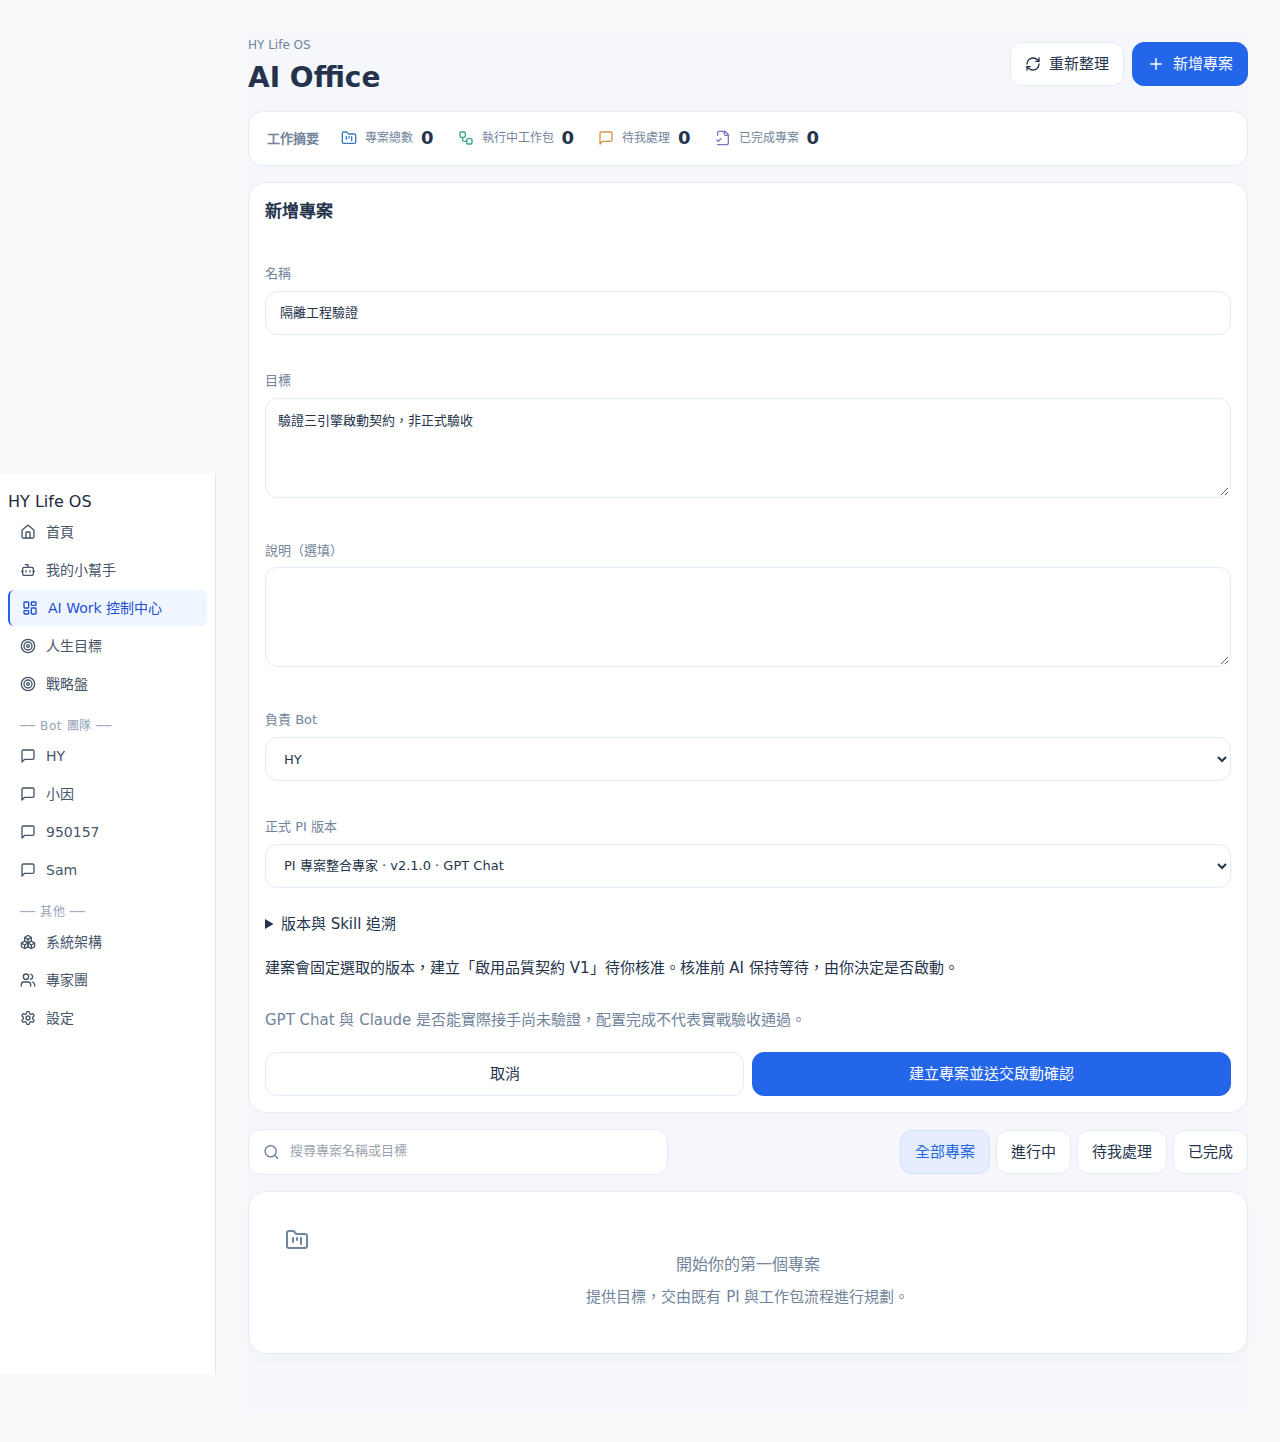
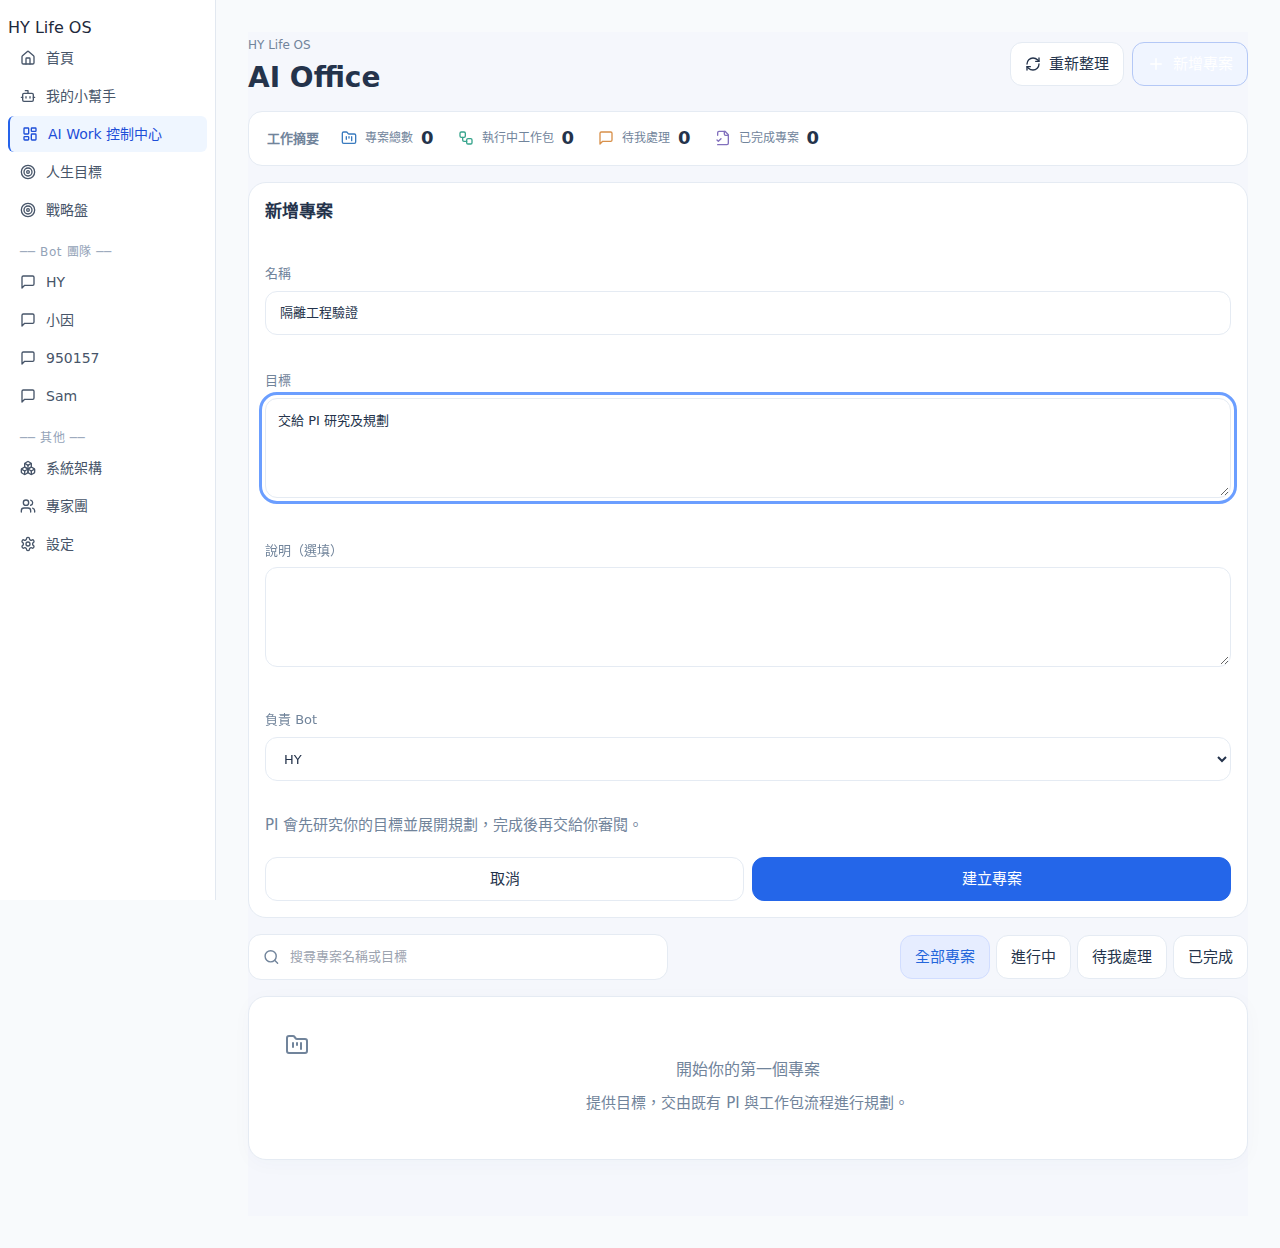
Simplify Office creation: remove PI selection and extra activation approval

diff --git a/src/pages/AIOfficeV1.jsx b/src/pages/AIOfficeV1.jsx
@@ -26,32 +26,23 @@ function Empty({ children }) { return <p className="ao-empty">{children}</p> }
 function Markdown({ value }) { return value ? <ReactMarkdown remarkPlugins={[remarkGfm]} skipHtml components={{a: ({href,children}) => <Link href={href}>{children}</Link>}}>{value}</ReactMarkdown> : <Empty>正式文件尚未提供。</Empty> }
 
 export default function AIOfficeV1() {
-  return <div className="ao"><ControlCenterV5 title="AI Office" loadData={loadOffice} renderCreation={props=><StartupCreate {...props}/>} renderHome={props=><OfficeHome {...props}/>} renderProject={({project,onBack,onDeleted}) => <OfficeProject key={project.id} id={project.id} onBack={onBack} onDeleted={onDeleted} />} /></div>
+  return <div className="ao"><ControlCenterV5 title="AI Office" loadData={loadOffice} renderCreation={props=><OfficeCreate {...props}/>} renderHome={props=><OfficeHome {...props}/>} renderProject={({project,onBack,onDeleted}) => <OfficeProject key={project.id} id={project.id} onBack={onBack} onDeleted={onDeleted} />} /></div>
 }
 
-function StartupCreate({onCancel,onCreated}) {
-  const [form,setForm]=useState({title:'',goal:'',description:'',owner_bot:'hy'}),[experts,setExperts]=useState([]),[pinKey,setPinKey]=useState(''),[error,setError]=useState(''),[loading,setLoading]=useState(true),[busy,setBusy]=useState(false)
-  const generation=useRef(0)
+function OfficeCreate({onCancel,onCreated}) {
+  const [form,setForm]=useState({title:'',goal:'',description:'',owner_bot:'hy'}),[error,setError]=useState(''),[busy,setBusy]=useState(false)
   const projectId=useRef(`project-${crypto.randomUUID()}`)
-  const load=useCallback(async()=>{const version=++generation.current;setLoading(true);setError('');setExperts([]);setPinKey('');try{const value=await office('/startup-options');if(!Array.isArray(value.experts))throw new Error('啟動資料契約未就緒');if(version===generation.current)setExperts(value.experts)}catch(e){if(version===generation.current)setError(e.message)}finally{if(version===generation.current)setLoading(false)}},[])
-  useEffect(()=>{load();return()=>{generation.current++}},[load])
   const set=key=>e=>setForm(f=>({...f,[key]:e.target.value}))
-  const selected=experts.find(e=>`${e.pin.version}:${e.pin.content_hash}`===pinKey)
-  async function submit(e){e.preventDefault();if(!selected)return;setBusy(true);setError('');try{const id=projectId.current;await office('/projects',{method:'POST',body:JSON.stringify({...form,title:form.title.trim(),goal:form.goal.trim(),project_id:id,pi_expert:selected.pin})});await onCreated(id)}catch(e){setError(e.message)}finally{setBusy(false)}}
-  return <form className="cc5-panel cc5-form" onSubmit={submit} aria-label="三引擎新專案">
+  async function submit(e){e.preventDefault();setBusy(true);setError('');try{const id=projectId.current;await office('/projects',{method:'POST',body:JSON.stringify({...form,title:form.title.trim(),goal:form.goal.trim(),project_id:id})});await onCreated(id)}catch(e){setError(e.message==='PI_NOT_READY'?'PI 尚未就緒，請稍後重試。':e.message)}finally{setBusy(false)}}
+  return <form className="cc5-panel cc5-form" onSubmit={submit} aria-label="新增專案">
     <h2>新增專案</h2>
     <label className="cc5-field">名稱<input required maxLength={200} value={form.title} onChange={set('title')}/></label>
     <label className="cc5-field">目標<textarea required maxLength={30000} value={form.goal} onChange={set('goal')}/></label>
     <label className="cc5-field">說明（選填）<textarea maxLength={10000} value={form.description} onChange={set('description')}/></label>
     <label className="cc5-field">負責 Bot<select value={form.owner_bot} onChange={set('owner_bot')}>{[['hy','HY'],['950157','950157'],['sam','Sam'],['family','小因']].map(([id,name])=><option key={id} value={id}>{name}</option>)}</select></label>
-    <label className="cc5-field">正式 PI 版本<select required aria-label="正式 PI 版本" value={pinKey} disabled={loading||busy} onChange={e=>setPinKey(e.target.value)}><option value="">請選擇已發布版本</option>{experts.map(e=><option key={e.pin.content_hash} value={`${e.pin.version}:${e.pin.content_hash}`}>{e.name} · v{e.pin.version} · GPT Chat</option>)}</select></label>
-    {selected&&<details className="ao-startup-pins"><summary>版本與 Skill 追溯</summary><p>Expert hash：<code>{selected.pin.content_hash}</code></p>{selected.skills.map(s=><p key={s.id+s.version}>{s.id} · v{s.version}<br/><code>{s.content_hash}</code></p>)}</details>}
-    {loading&&<p role="status">正在核對正式 PI／Skill…</p>}
-    {!loading&&!error&&!experts.length&&<p role="alert">沒有可用的正式 PI／Skill，請先完成 Registry 發布。</p>}
-    <p>建案會固定選取的版本，建立「啟用品質契約 V1」待你核准。核准前 AI 保持等待，由你決定是否啟動。</p>
-    <p className="ao-muted">GPT Chat 與 Claude 是否能實際接手尚未驗證，配置完成不代表實戰驗收通過。</p>
-    {error&&<div role="alert"><p>{error}</p><button type="button" disabled={busy} onClick={load}>重新核對啟動資料</button></div>}
-    <div className="cc5-two"><button type="button" disabled={busy} onClick={onCancel}>取消</button><button className="ao-primary" disabled={busy||loading||!selected||!form.title.trim()||!form.goal.trim()}>{busy?'建立中…':'建立專案並送交啟動確認'}</button></div>
+    <p className="ao-muted">PI 會先研究你的目標並展開規劃，完成後再交給你審閱。</p>
+    {error&&<p role="alert">{error}</p>}
+    <div className="cc5-two"><button type="button" disabled={busy} onClick={onCancel}>取消</button><button className="ao-primary" disabled={busy||!form.title.trim()||!form.goal.trim()}>{busy?'建立中…':'建立專案'}</button></div>
   </form>
 }
 
@@ -90,14 +81,12 @@ function OfficeProject({ id, onBack, onDeleted }) {
 }
 
 function Overview({project,plan,pending,onMeeting,onExecution,onOutputs,reload,onDeleted,setError}) {
-  const [editing,setEditing]=useState(false),[startupBusy,setStartupBusy]=useState(false)
-  async function retryStartup(){setStartupBusy(true);try{const result=await request(`${ppath(project.id)}/quality/enable-request`,{method:'POST'});await reload();onMeeting(result.action_id)}catch(e){setError(e.message)}finally{setStartupBusy(false)}}
+  const [editing,setEditing]=useState(false)
   const ms=milestones(project), current=project.packages.filter(p=>['RUNNING','READY','WAITING','BLOCKED','FAILED'].includes(p.status) && p.type!=='PROJECT_REPORT' && !String(p.milestone_id || '').startsWith('PARKED:'))
   const files=[...project.files].sort((a,b)=>b.created_at-a.created_at).slice(0,4)
   return <>
     <div className="ao-overview-actions"><button onClick={()=>setEditing(v=>!v)}>編輯</button>{project.permissions.delete ? <div className="cc5"><DeleteZone project={project} onDeleted={onDeleted}/></div> : <span className="ao-muted">刪除專案僅限 HY 本人</span>}</div>
     {editing && <Card title="編輯專案（正式規格變更）"><p>目標與範圍沿用正式規格變更及人工核准流程，不直接改動狀態。</p>{project.plan_state==='APPROVED' && project.phase==='執行期' && project.milestone_id ? <div className="cc5"><SpecChangeBox project={project} onChanged={reload} setError={setError} goInbox={()=>onMeeting(null)}/></div> : <Empty>目前階段未開放規格變更；請在 PI 會議室提供修訂意見，由既有工作流程接手。</Empty>}</Card>}
-    {project.startup&&project.startup.state!=='LEGACY_UNCONFIGURED'&&<Card title="三引擎啟動確認" className="ao-startup-pins"><p>PI：v{project.startup.pi_expert?.version} · 固定正式版本</p><details><summary>版本與 Skill 追溯</summary><p><code>{project.startup.pi_expert?.content_hash}</code></p>{project.startup.skills?.map(s=><p key={s.id+s.version}>{s.id} · v{s.version}<br/><code>{s.content_hash}</code></p>)}</details><p>建置配置：{({CONFIGURED:'配置完成，尚待實戰驗證',WAITING_HY_APPROVAL:'等待 HY 核准 Quality',PIN_INVALID:'正式版本驗證失敗，停止派工'})[project.startup.state]||'未就緒'}</p><p>Quality：{project.startup.quality_enabled?'已經正式核准啟用':'尚未啟用'}</p>{project.startup.pin_errors?.map(e=><p role="alert" key={e}>{e}</p>)}{project.startup.quality_action&&<><p>核准紀錄：{project.startup.quality_action.status} · {when(project.startup.quality_action.resolved_at)}</p><button onClick={()=>onMeeting(project.startup.quality_action.id)}>查看 Quality 正式核准事項</button></>}{project.startup.state==='WAITING_HY_APPROVAL'&&project.startup.quality_action?.status!=='OPEN'&&project.permissions.delete&&<button disabled={startupBusy} onClick={retryStartup}>重新提出 Quality 啟動確認</button>}<p className="ao-muted">執行端可用性尚未驗證；配置及品質契約啟用不等於三引擎正式驗收。</p></Card>}
     <div className="ao-dashboard">
       <Card title="專案概況"><dl><dt>名稱</dt><dd>{project.title}</dd><dt>類型</dt><dd>{plan?.project_type || '尚未記錄'}</dd><dt>Goal</dt><dd>{project.goal}</dd><dt>目前階段</dt><dd>{project.phase} {project.milestone_id}</dd><dt>開始日期</dt><dd>{when(project.started_at)}</dd><dt>預估完成</dt><dd>{plan?.estimated_completion_date || '尚未正式記錄'}</dd></dl><p>{project.description || '尚無簡要說明'}</p></Card>
       <Card title="里程碑進度"><ol className="ao-timeline">{ms.map(m=><li key={m.id}><button onClick={()=>onExecution(m.id)}><b>{m.id} {m.name}</b><small>{m.packages.filter(p=>p.status==='COMPLETED').length}／{m.packages.length} 工作包</small></button></li>)}</ol>{!ms.length && <Empty>正式規劃尚未提供里程碑。</Empty>}</Card>

diff --git a/src/pages/ai-office-v1.css b/src/pages/ai-office-v1.css
@@ -21,4 +21,3 @@
 .ao-home{gap:16px;background:var(--ao-surface)}.ao-home-section-head{display:flex;justify-content:space-between;gap:16px;align-items:center}.ao-list-heading h1{margin:4px 0 0}.ao-list-heading .ao-muted{font-size:12px}.ao-home-head-actions{display:flex;gap:8px}.ao-home-head-actions button{display:flex;align-items:center;gap:8px}.ao-home-summary{display:flex;align-items:center;gap:22px;background:#fff;border:1px solid var(--ao-line);border-radius:14px;padding:12px 18px;overflow-x:auto;white-space:nowrap}.ao-home-summary h2{font-size:13px;margin:0;color:var(--ao-muted);flex-shrink:0}.ao-home-stats{display:flex;align-items:center;gap:24px}.ao-stat{display:flex;align-items:center;gap:8px;color:var(--tone-ink)}.ao-stat small{font-size:12px;white-space:nowrap}.ao-stat strong{font-size:18px;color:var(--ao-ink)}.ao-tone-blue{--tone-ink:#3a7bbf}.ao-tone-mint{--tone-ink:#36a48c}.ao-tone-violet{--tone-ink:#8270bd}.ao-tone-amber{--tone-ink:#d8904a}.ao-home-controls{display:flex;justify-content:space-between;gap:16px;flex-wrap:wrap;align-items:center}.ao-home-search{position:relative;display:flex!important;align-items:center;gap:10px;margin:0!important;flex:1;max-width:420px;background:#fff;border:1px solid var(--ao-line);border-radius:13px;padding:0 14px}.ao-home-search input{margin:0;border:0;background:transparent;padding-left:0}.ao-home-controls [role=group]{display:flex;gap:6px;flex-wrap:wrap}.ao-home-controls [aria-pressed=true]{color:#2466db;background:#e6edff;border-color:#d1ddff}.ao-home-projects{display:grid;grid-template-columns:1fr;gap:10px}.ao .ao-project-line{display:grid;grid-template-columns:40px minmax(0,1fr) 110px 145px auto 150px;align-items:center;gap:16px;text-align:left;padding:18px;background:#fff;border:1px solid var(--ao-line);border-radius:14px;min-width:0;box-shadow:0 3px 14px #29496504}.ao .ao-project-line:hover{background:#fafcff;border-color:#b7cbe9}.ao-icon-tile{display:inline-flex;align-items:center;justify-content:center;width:40px;height:40px;border-radius:12px;background:#e8f1ff;color:#3a7bbf}.ao-project-title{display:grid;gap:4px;min-width:0}.ao-project-title b{font-size:15px}.ao-project-goal{color:var(--ao-muted);font-size:12px;white-space:nowrap;overflow:hidden;text-overflow:ellipsis}.ao-project-stage{display:grid;gap:4px;font-size:13px;color:#657990}.ao-home-progress{display:grid;gap:4px;font-size:12px}.ao-home-progress small{font-size:10px}.ao-progress-track{display:block;height:5px;border-radius:20px;background:#edf0f5;overflow:hidden}.ao-progress-track>span{display:block;height:100%;background:#4aafaa;border-radius:20px}.ao-project-enter{display:grid;gap:4px;min-width:0}.ao-project-enter>span{display:flex;align-items:center;color:#3674c3;white-space:nowrap;font-size:12px}.ao-project-enter small{font-size:10px}.ao-home-empty{text-align:center;padding:36px;color:var(--ao-muted)}.ao-home-create .cc5-panel{background:#fff}
 @media(max-width:1150px){.ao .ao-project-line{grid-template-columns:40px minmax(0,1fr) 100px 130px;gap:12px}.ao-project-line>.ao-pill{grid-column:2;justify-self:start}.ao-project-enter{grid-column:3/5;display:flex;justify-content:space-between}.ao-home-stats{gap:18px}}
 @media(max-width:700px){.ao-home-section-head{align-items:flex-start;flex-wrap:wrap}.ao-home-head-actions{flex-wrap:wrap}.ao-home-summary{gap:16px;padding:12px}.ao-home-stats{gap:18px}.ao-home-controls{align-items:stretch}.ao-home-search{max-width:none;flex-basis:100%}.ao .ao-project-line{grid-template-columns:36px minmax(0,1fr) auto;padding:16px;gap:12px}.ao-project-title{grid-column:2/4}.ao-project-stage{grid-column:2}.ao-home-progress{grid-column:3}.ao-project-line>.ao-pill{grid-column:2}.ao-project-enter{grid-column:2/4;display:grid;gap:2px}.ao-project-line .ao-icon-tile{width:36px;height:36px}.ao-project-goal{white-space:normal;display:-webkit-box;-webkit-line-clamp:2;-webkit-box-orient:vertical}.ao-project-line>.ao-pill{grid-row:3}.ao-project-line .ao-project-enter{grid-row:4}.ao-project-line .ao-home-progress{grid-row:2/4}}
-.ao-startup-pins code{overflow-wrap:anywhere;font-size:.75rem}.ao-startup-pins p{max-width:100%;overflow-wrap:anywhere}

diff --git a/src/pages/ControlCenterV5.jsx b/src/pages/ControlCenterV5.jsx
@@ -351,7 +351,7 @@ export function Inbox({ items, project, onChanged, setError, attachmentIds = {} 
 
   if (!items.length) return <p className="cc5-empty">這個專案目前沒有待確認事項，其他工作包照常執行中。</p>
   return <div className="cc5-stack">
-    <p className="cc5-muted">{project?.startup?.state === 'WAITING_HY_APPROVAL' ? '本專案需先完成 Quality 啟動核准，AI 才會接手。' : '待確認不會擋住沒有依賴的工作包。'}</p>
+    <p className="cc5-muted">待確認不會擋住沒有依賴的工作包。</p>
     {items.map(item => {
       const approval = ['PLAN_APPROVAL', 'MILESTONE_REVIEW', 'CLOSURE_APPROVAL', 'QUALITY_POLICY_ENABLE', 'QUALITY_SKILL_PUBLISH', 'QUALITY_SKILL_DISABLE', 'QUALITY_CAPABILITY_REGISTER'].includes(item.action_type)
       const spec = item.action_type === 'SPEC_CHANGE_APPROVAL'
@@ -364,7 +364,7 @@ export function Inbox({ items, project, onChanged, setError, attachmentIds = {} 
         </div>
         <h2 className="cc5-q">{item.title}</h2>
         {item.question && item.question !== item.title && <p className="cc5-pre">{spec ? item.question.split('\n\n回覆 APPROVED')[0] : item.question}</p>}
-        {item.approval_allowed === false && <p className="cc5-muted">{item.action_type === 'QUALITY_POLICY_ENABLE' ? 'Quality 啟動核准僅限 HY 本人。' : item.action_type === 'MODULE_ACCEPTANCE' ? '模組版本或證據已變更，請重新提交正式驗收請求。' : '尚未通過同版本獨立審查，不能核准。'}</p>}
+        {item.approval_allowed === false && <p className="cc5-muted">{item.action_type === 'MODULE_ACCEPTANCE' ? '模組版本或證據已變更，請重新提交正式驗收請求。' : '尚未通過同版本獨立審查，不能核准。'}</p>}
         {item.reason && item.action_type !== 'MODULE_ACCEPTANCE' && <p className="cc5-muted cc5-pre">{code ? firstLine(item.reason) : item.reason}</p>}
         {item.plan && <AIExecutionPlan plan={item.plan} />}
         {item.plan && <details className="cc5-sub"><summary>查看專案規劃書草稿</summary><PlanBody plan={item.plan} /></details>}

diff --git a/docs/quality/AI_Office_Startup.md b/docs/quality/AI_Office_Startup.md
@@ -1,12 +1,11 @@
-# AI Office 新專案三引擎啟動 UI
+# AI Office 新案 UI
 
-依賴後端 Three Engine Startup PR。AI Office 首頁仍為單行摘要與一案一列，專案內頁仍為既定五頁；只替換新案表單並在概況顯示精簡啟動確認。外部頁面原有 NewProject 流程保持不變。
+建案沿用名稱、Goal、選填說明及原有負責 Bot。唯一說明：「PI 會先研究你的目標並展開規劃，完成後再交給你審閱。」
 
-1. 新案表單讀 `/api/ai-office/startup-options`，手動選已發布且可用 PI；顯示版本及 Expert/Skill hash。讀取失敗、空 Registry、未選版本時不能建立，提供重試，沒有快取／預設假配置。
-2. `/api/ai-office/projects` 建立固定正式版本與 Quality OWNER_ONLY 待核准事項。前端使用同一 project UUID 重試，後端原子及 idempotency 防重建；不送 Project Status/Phase/Milestone，不自動核准、不建立獨立派工或 Skill 系統。
-3. 概況显示等待 HY、配置完成但待實戰、或 pin 錯誤；原始 Quality 核准事項可直接进入 PI 會議室，由既有 Inbox/resolve 處理。拒絕後 owner 可用原 enable-request 重新提出。顯示「執行端可用性尚未驗證」，不偽裝在線、不宣稱正式驗收。
-4. API 未部署時阻止新案，不降級到 legacy 建案。舊專案不自動綁定或啟用 Quality；唯讀查詢無改寫。發布／實際執行／正式驗收依舊分開。
+已移除正式 PI 版本選擇、hash/Skill 區塊、startup-options 載入、Quality 啟動核准／重提按鈕、三引擎啟動卡片及配置警告。不新增分頁、側欄或重複資訊。
 
-驗證：43個既有前端單元測試、production build、新增 startup desktop/mobile (1280/390) UI 測試，以及既有 AI Office 五頁／PI／Module Registry UI 回歸。測試檔 `tests/ai-office-startup-ui.cjs` 已納入 pi-phase-ui CI；只使用隔離 fixtures。`docs/quality/ui/ai-office-startup/create-*.png` 是工程預覽，不是正式專案資料或驗收證据。
+POST /api/ai-office/projects 由後端自動選最新正式 PI 並安排品質審查。前端不傳版本或狀態。錯誤保留表單，同一 UUID 重試；不降級到未整合的 legacy 建案、不偽裝進度。已有專案概況、PI會議室、執行計畫、成果與審查、工作日誌保留。
 
-本次不合併、不部署，不建立正式驗證案。后端先部署，前端再上线；下一步另驗證訂閱 GPT Chat 與 Claude 的 MCP 實際認領、計畫雙文件、PI 內審、Quality 三節點及 Drive 讀回，HY 仍保留正式核准權。
+依賴後端 PR #138，本 PR #81；後端先部署。本次不合併部署，不改正式資料。原 ControlCenter NewProject 不變，只使用選用的 creation renderer。
+
+驗證：43 個既有單元測試、production build、1280/390 建案測試（只有名稱/Goal、不選PI、不要求啟動核准、API錯誤重試、相同UUID及五頁）、既有AI Office／PI／18模組Registry回歸。工程預覽 create-1280.png／create-390.png 為隔離 fixtures，不代表正式專案或引擎驗收。
